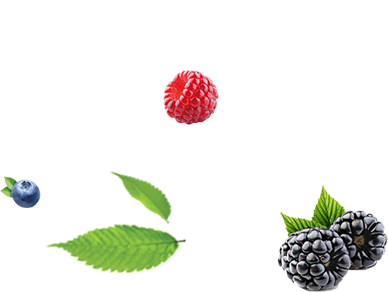
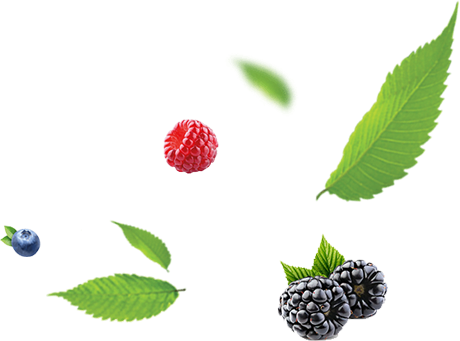
add in welcome sheet and berries

diff --git a/css/main.css b/css/main.css
@@ -480,11 +480,24 @@ button {
   border: 2px; }
 
 .welcome {
+  position: relative;
   color: #fff;
   background-image: url(../img/welcome/bg-welcome.png);
   background-position: bottom right;
   background-repeat: no-repeat;
   background-color: #61c4d9; }
+  .welcome::before {
+    content: url(../img/welcome/sheet.png);
+    display: block;
+    position: absolute;
+    left: 0;
+    bottom: -7%; }
+  .welcome::after {
+    content: url(../img/welcome/barries.png);
+    display: block;
+    position: absolute;
+    right: 0;
+    bottom: -4%; }
 
 .welcome__container {
   display: -webkit-box;

diff --git a/css/blocks/welcome.scss b/css/blocks/welcome.scss
@@ -1,9 +1,26 @@
 .welcome {
+  position: relative;
   color: $white;
   background-image: url(../img/welcome/bg-welcome.png);
   background-position: bottom right;
   background-repeat: no-repeat;
   background-color: $blue;
+
+  &::before {
+    content: url(../img/welcome/sheet.png);
+    display: block;
+    position: absolute;
+    left: 0;
+    bottom: -7%;
+  }
+
+  &::after {
+    content: url(../img/welcome/barries.png);
+    display: block;
+    position: absolute;
+    right: 0;
+    bottom: -4%;
+  }
 }
 
 .welcome__container {
